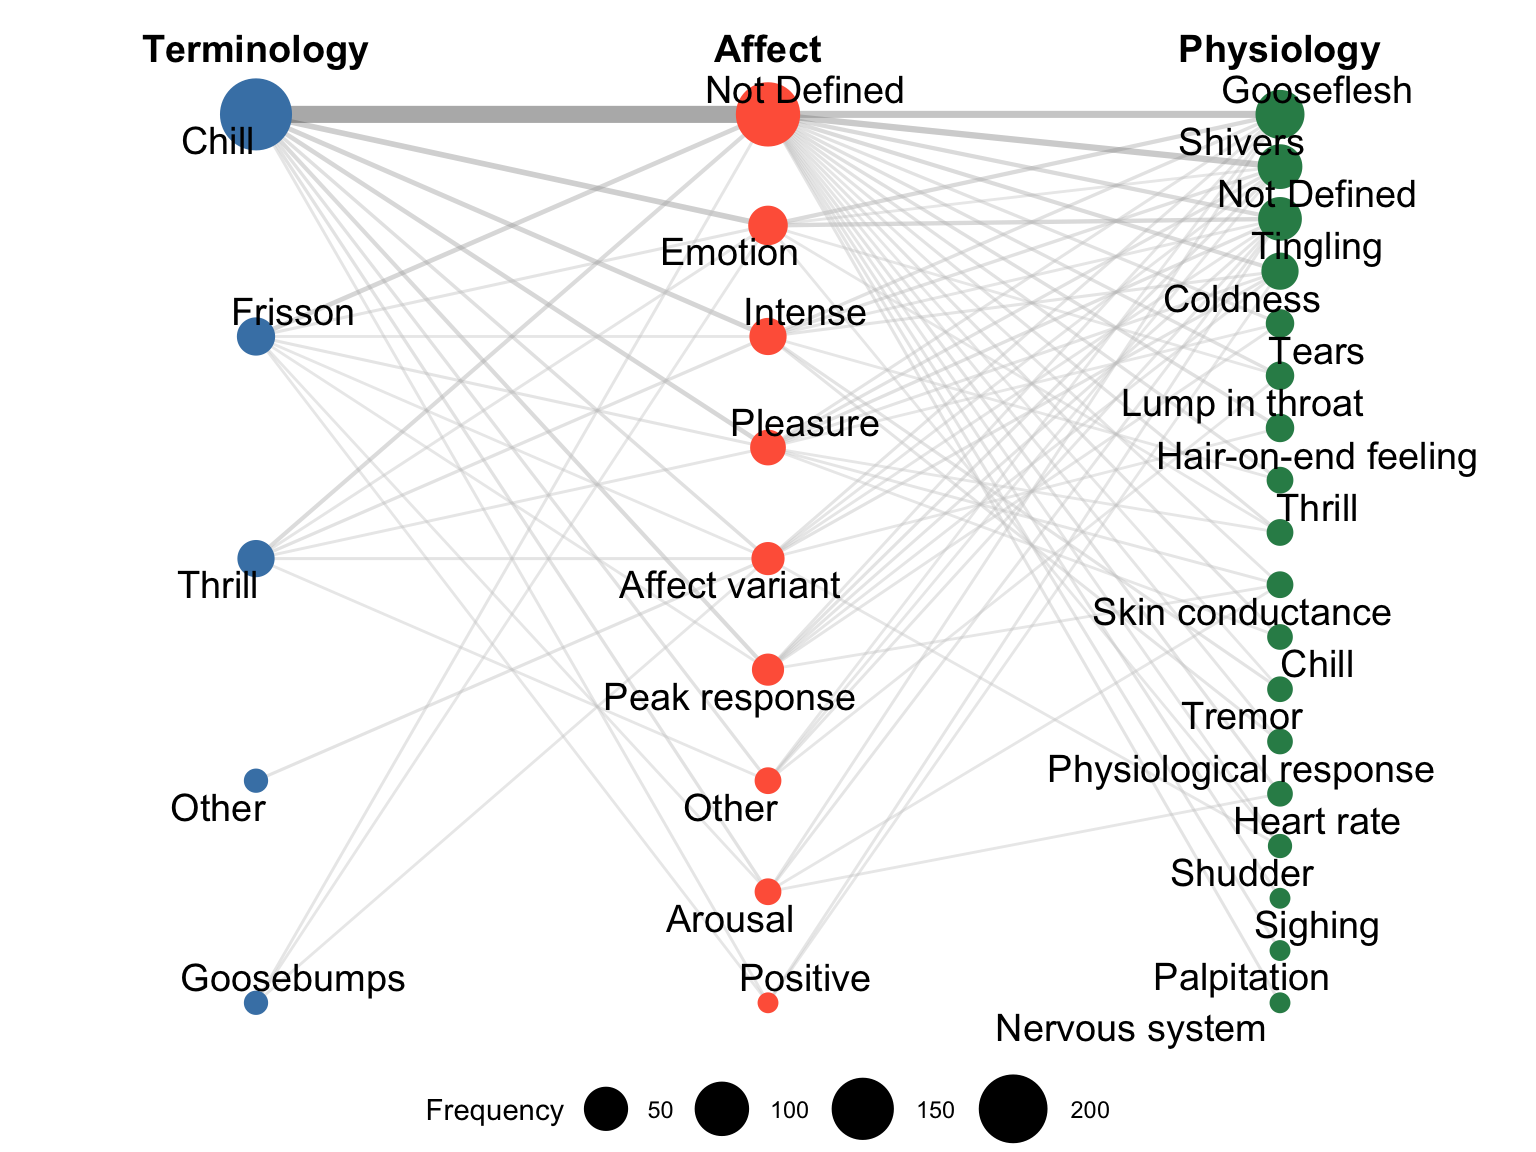
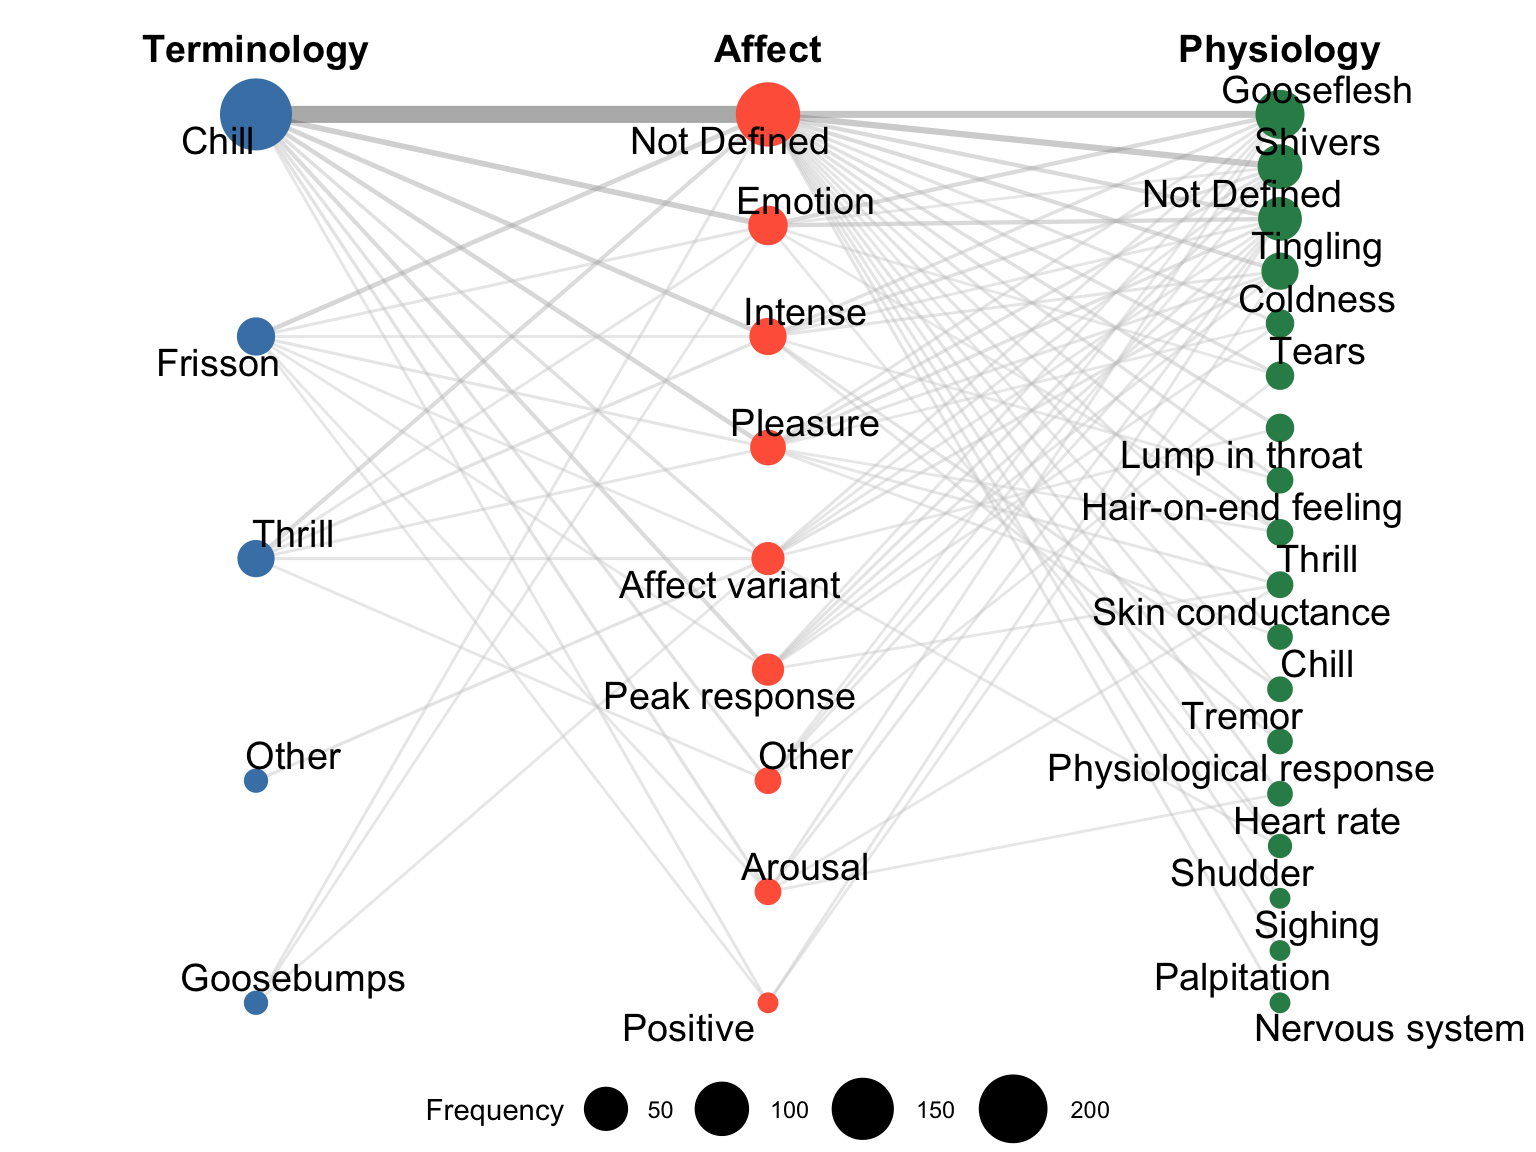
First version of the network figure

diff --git a/docs/visualise.html b/docs/visualise.html
@@ -631,7 +631,14 @@ pre > code.sourceCode > span > a:first-child::before { text-decoration: underlin
 </table></section></section><section id="visualise-as-network-graph" class="level2" data-number="3.2"><h2 data-number="3.2" class="anchored" data-anchor-id="visualise-as-network-graph">
 <span class="header-section-number">3.2</span> Visualise as network graph</h2>
 <p>Visualise the co-occurrence of Terminology, Affect, and Physiology using a network graph.</p>
-<p>Principles: - The order of the nodes is now determined by frequency within each category. - There is a filter to remove rare terms (&lt;3). - “Not defined” is included as a node. - Node positions can be made to be more organic, now rigid.</p>
+<section id="principles" class="level4" data-number="3.2.0.1"><h4 data-number="3.2.0.1" class="anchored" data-anchor-id="principles">
+<span class="header-section-number">3.2.0.1</span> Principles:</h4>
+<ul>
+<li>The order of the nodes is now determined by frequency within each category.</li>
+<li>There is a filter to remove rare terms (&lt;3).</li>
+<li>“Not defined” is included as a node.</li>
+<li>Node positions can be made to be more organic, now rigid.</li>
+</ul>
 <div class="cell">
 <details class="code-fold"><summary>Show the code</summary><div class="code-copy-outer-scaffold"><div class="sourceCode" id="cb8"><pre class="downlit sourceCode r code-with-copy"><code class="sourceCode R"><span><span class="kw"><a href="https://rdrr.io/r/base/library.html">library</a></span><span class="op">(</span><span class="va"><a href="https://r.igraph.org/">igraph</a></span><span class="op">)</span></span>
 <span><span class="kw"><a href="https://rdrr.io/r/base/library.html">library</a></span><span class="op">(</span><span class="va"><a href="https://ggraph.data-imaginist.com">ggraph</a></span><span class="op">)</span></span>
@@ -780,7 +787,7 @@ pre > code.sourceCode > span > a:first-child::before { text-decoration: underlin
 </div>
 
 
-</section></section></main><!-- /main --><script id="quarto-html-after-body" type="application/javascript">
+</section></section></section></main><!-- /main --><script id="quarto-html-after-body" type="application/javascript">
   window.document.addEventListener("DOMContentLoaded", function (event) {
     const icon = "";
     const anchorJS = new window.AnchorJS();
